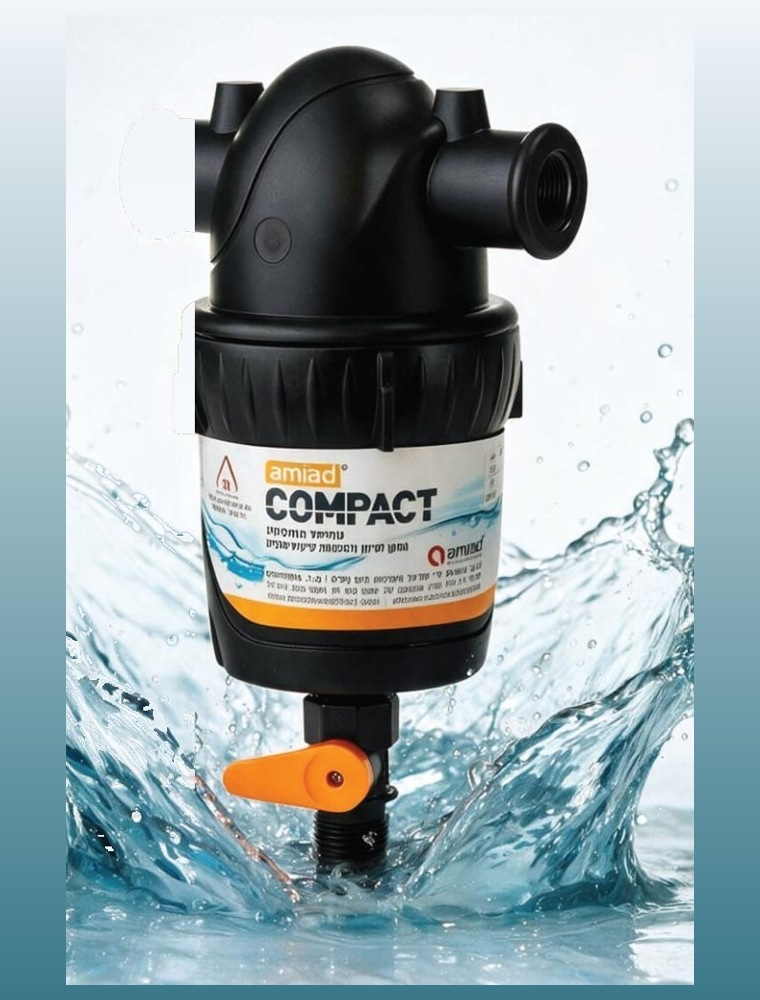
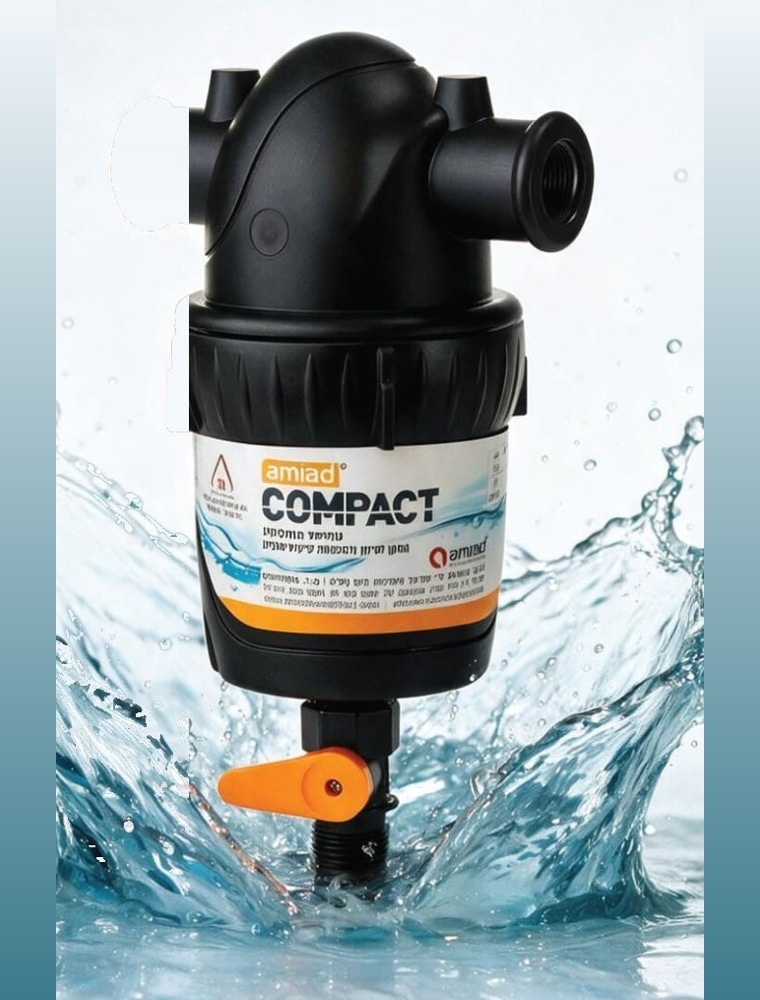
Product images fill the card frame (aspect-ratio media + cover; product enlarged)

diff --git a/src/App.css b/src/App.css
@@ -411,14 +411,13 @@ a.line:hover { color: #7fd4f5; }
 }
 .model-card:hover { transform: translateY(-6px); box-shadow: var(--shadow); border-color: var(--c-primary-soft-2); }
 .model-media {
-  position: relative; width: 100%; height: 330px; padding: 14px; overflow: hidden;
-  background: #eef5fb; border: 0; cursor: zoom-in;
-  display: grid; place-items: center;
+  position: relative; width: 100%; aspect-ratio: 76 / 100; overflow: hidden;
+  background: #eef5fb; border: 0; cursor: zoom-in; display: block;
 }
-/* Product scales as large as possible to fill the area — contain keeps the whole
-   product visible (never cropped) and preserves aspect ratio (never distorted). */
+/* Image matches the frame's aspect ratio and covers it fully — no empty gaps,
+   product prominent, sides are the image's own water background. */
 .model-media img {
-  width: 100%; height: 100%; object-fit: contain; display: block;
+  width: 100%; height: 100%; object-fit: cover; display: block;
   transition: transform .25s ease;
 }
 .model-media:hover img { transform: scale(1.045); }
